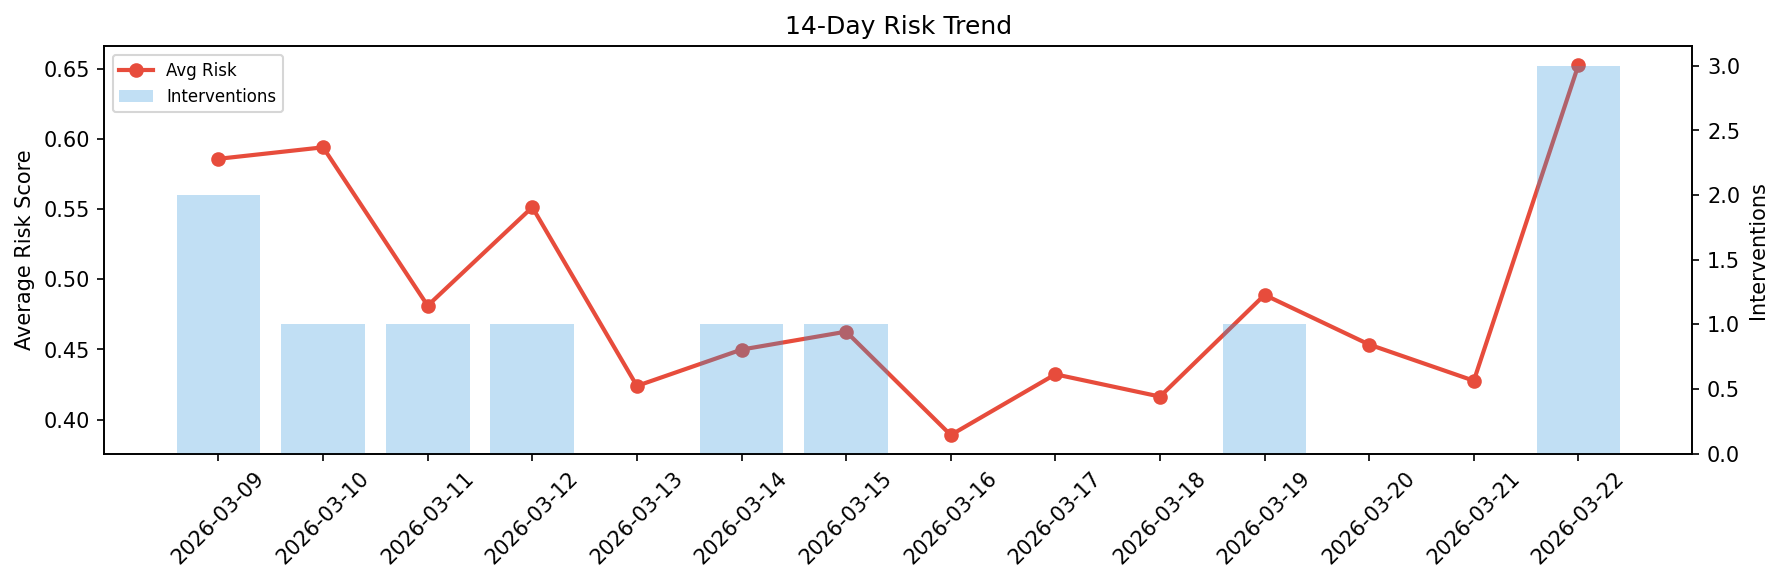
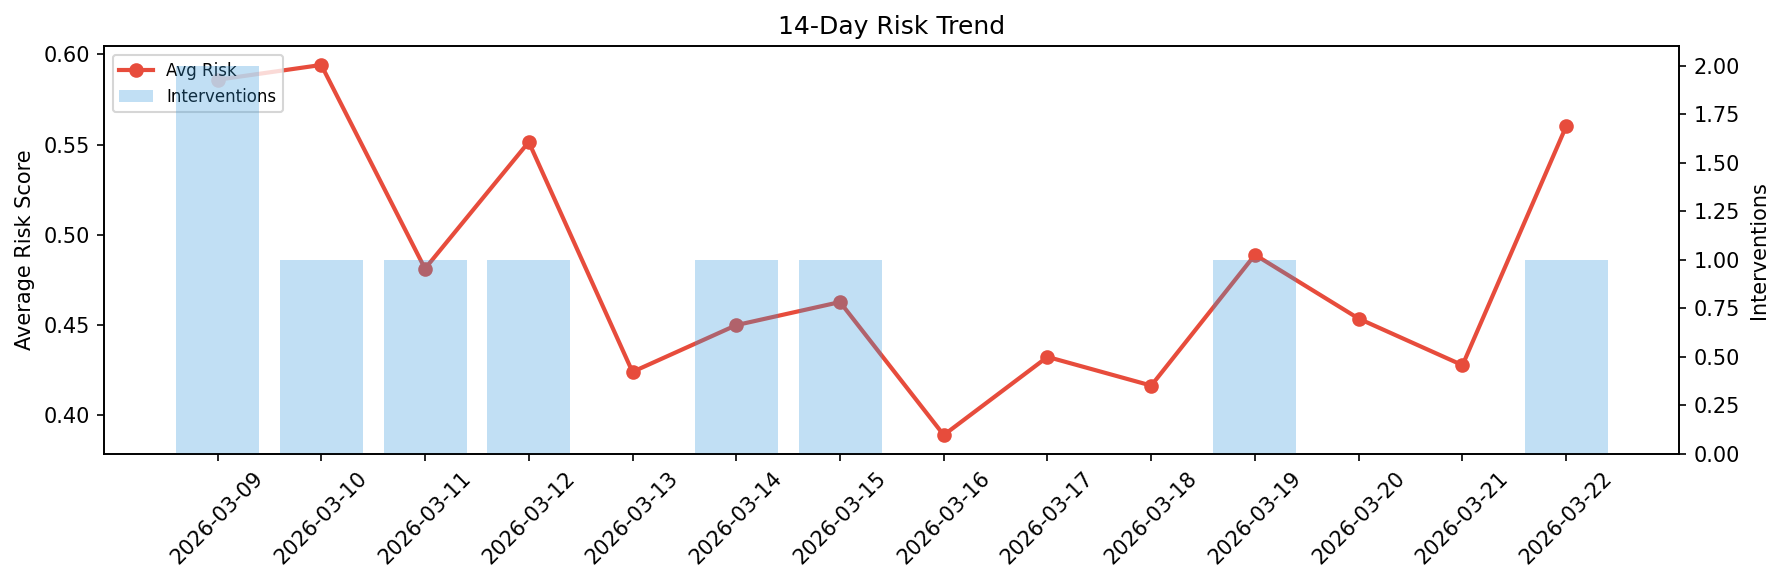
agent-improvement: daily cycle 2026-03-22T14:46

diff --git a/logs/2026-03-22.md b/logs/2026-03-22.md
@@ -1,6 +1,6 @@
 # Agent Improvement Report — 2026-03-22
 
-**Cycle ID:** `4f5cd188` | **Avg Risk:** 0.6528 | **Interventions:** 3/4
+**Cycle ID:** `8b9d583f` | **Avg Risk:** 0.5602 | **Interventions:** 1/4
 
 ![Dashboard](2026-03-22_dashboard.png)
 
@@ -10,18 +10,18 @@
 
 | Domain | Risk Score | Decision | Alerts |
 |--------|-----------|----------|--------|
-| code_review | 0.5018 | monitor | duplication |
-| incident_response | 0.7251 | intervene | mttr |
-| data_pipeline | 0.7777 | intervene | freshness, schema_drift |
-| deployment | 0.6065 | intervene | canary_error, latency_p99 |
+| code_review | 0.5304 | monitor | none |
+| incident_response | 0.5473 | monitor | none |
+| data_pipeline | 0.7231 | intervene | none |
+| deployment | 0.44 | monitor | none |
 
 ## Delta vs Yesterday
 
 | Domain | Today | Yesterday | Change |
 |--------|-------|-----------|--------|
-| code_review | 0.5018 | 0.453 | 📈 10.8% |
-| incident_response | 0.7251 | 0.4707 | 📈 54.0% |
-| data_pipeline | 0.7777 | 0.2494 | 📈 211.8% |
-| deployment | 0.6065 | 0.5378 | 📈 12.8% |
+| code_review | 0.5304 | 0.453 | 📈 17.1% |
+| incident_response | 0.5473 | 0.4707 | 📈 16.3% |
+| data_pipeline | 0.7231 | 0.2494 | 📈 189.9% |
+| deployment | 0.44 | 0.5378 | 📉 -18.2% |
 
-**Refinement:** `{'adjustment': 'tighten_thresholds', 'trend': 'degrading', 'window': 4}`
+**Refinement:** `{'adjustment': 'maintain', 'trend': 'improving', 'window': 4}`
